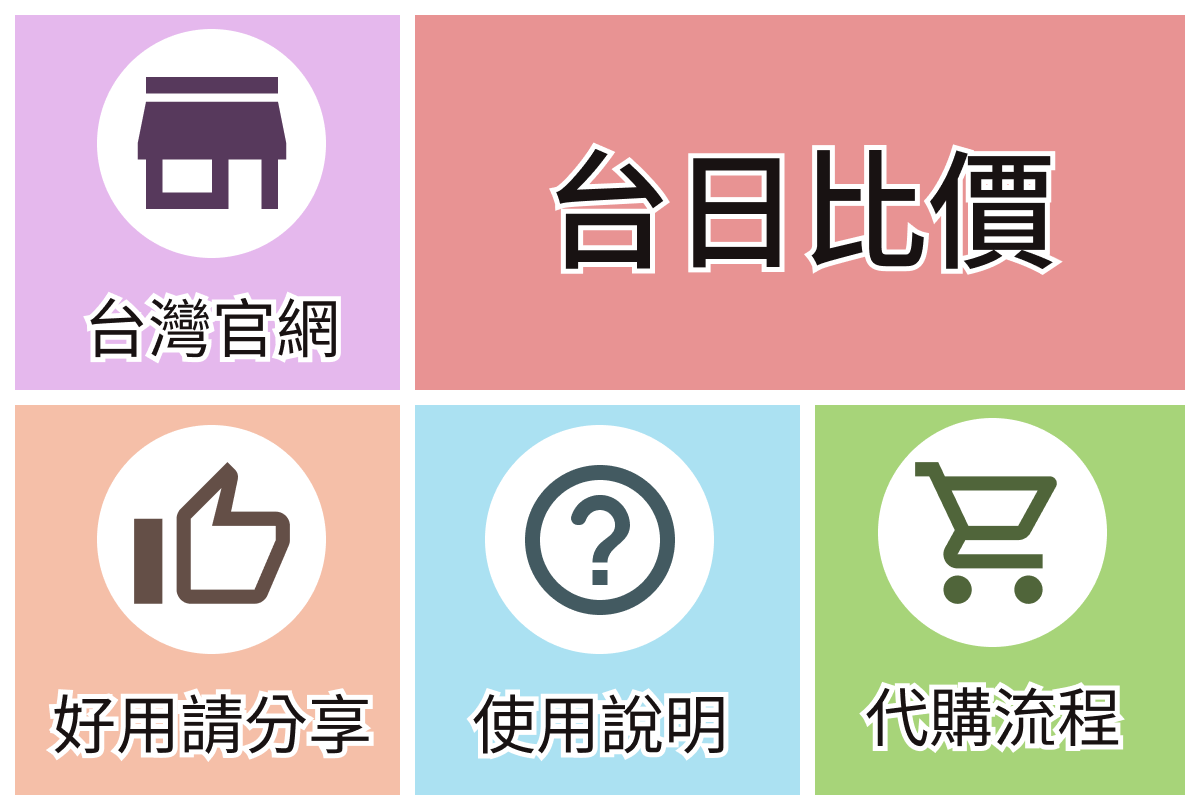
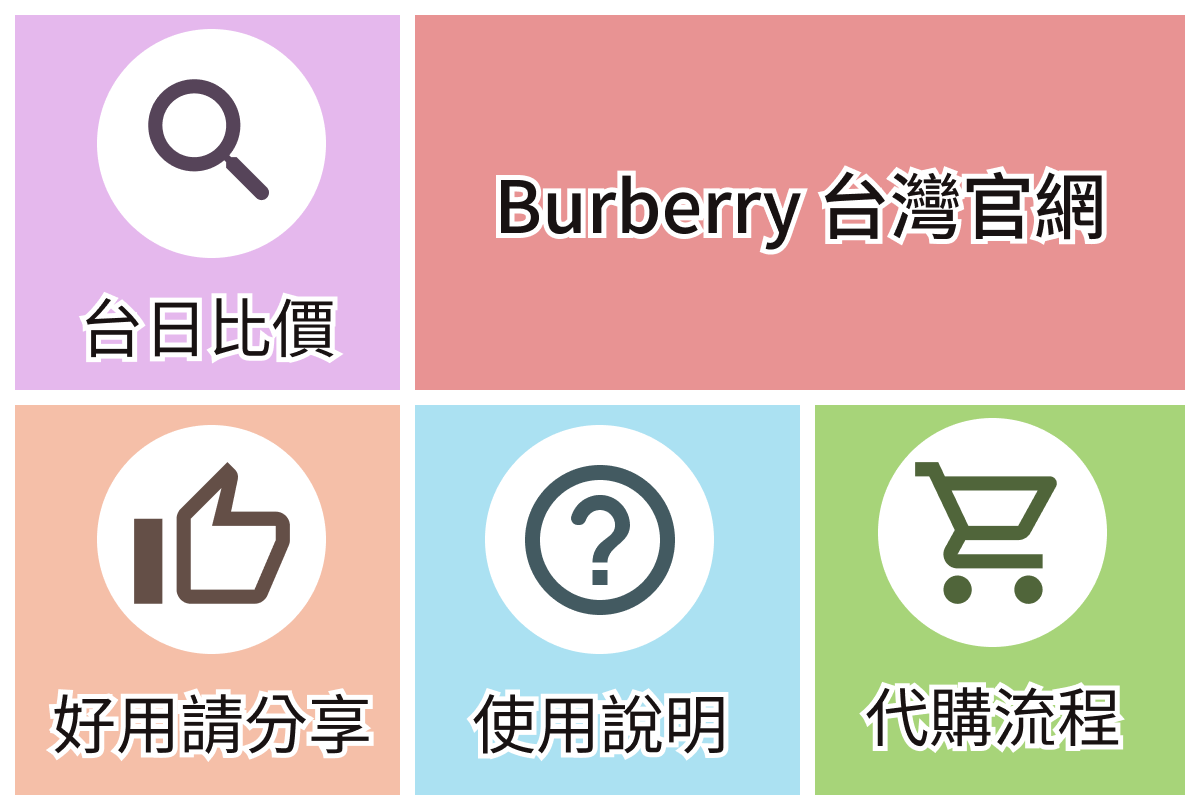
feat: new rich menu

Changed region(s): [[0.4008, 0.1543, 0.925, 0.3395], [0.0925, 0.0926, 0.2467, 0.2778], [0.0617, 0.3395, 0.3083, 0.463]]

diff --git a/burberry_bot/rich_menu.py b/burberry_bot/rich_menu.py
@@ -14,13 +14,14 @@ RICH_MENU = RichMenuRequest(
     areas=[
         RichMenuArea(
             bounds=RichMenuBounds(x=400, y=0, width=800, height=405),
-            action=MessageAction(text="cmd=compare_price", label="台日比價"),
+            action=URIAction(
+                uri="https://tw.burberry.com/?openExternalBrowser=1",
+                label="Burberry 台灣官網",
+            ),
         ),
         RichMenuArea(
             bounds=RichMenuBounds(x=0, y=0, width=400, height=405),
-            action=URIAction(
-                uri="https://tw.burberry.com/?openExternalBrowser=1", label="台灣官網"
-            ),
+            action=MessageAction(text="cmd=compare_price", label="台日比價"),
         ),
         RichMenuArea(
             bounds=RichMenuBounds(x=0, y=405, width=400, height=405),
